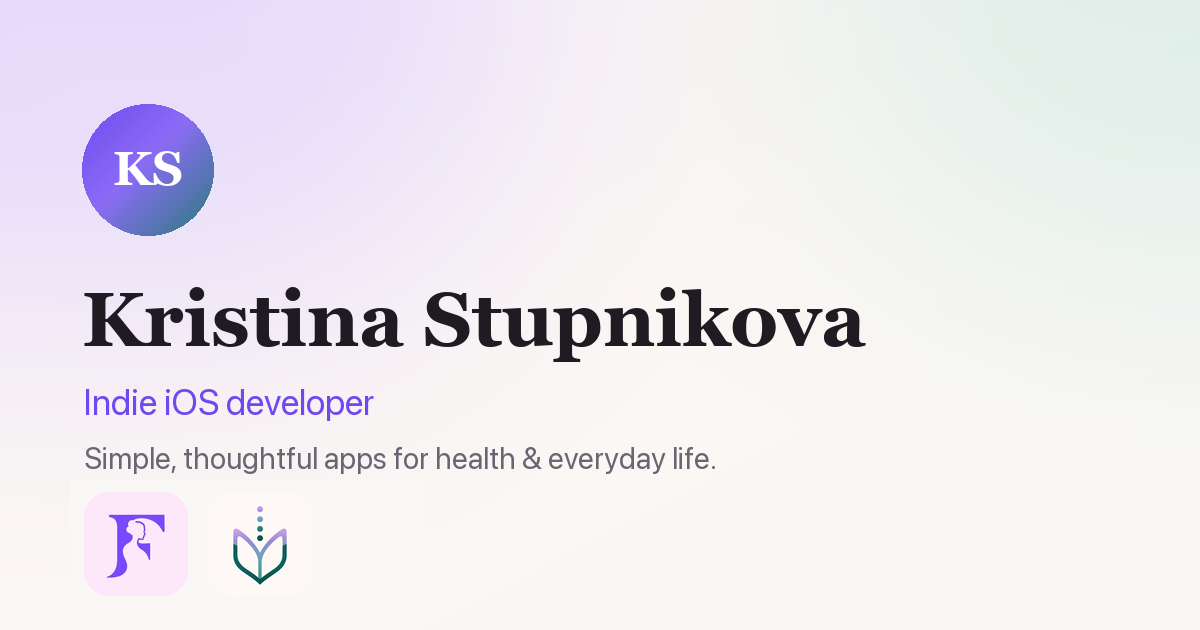
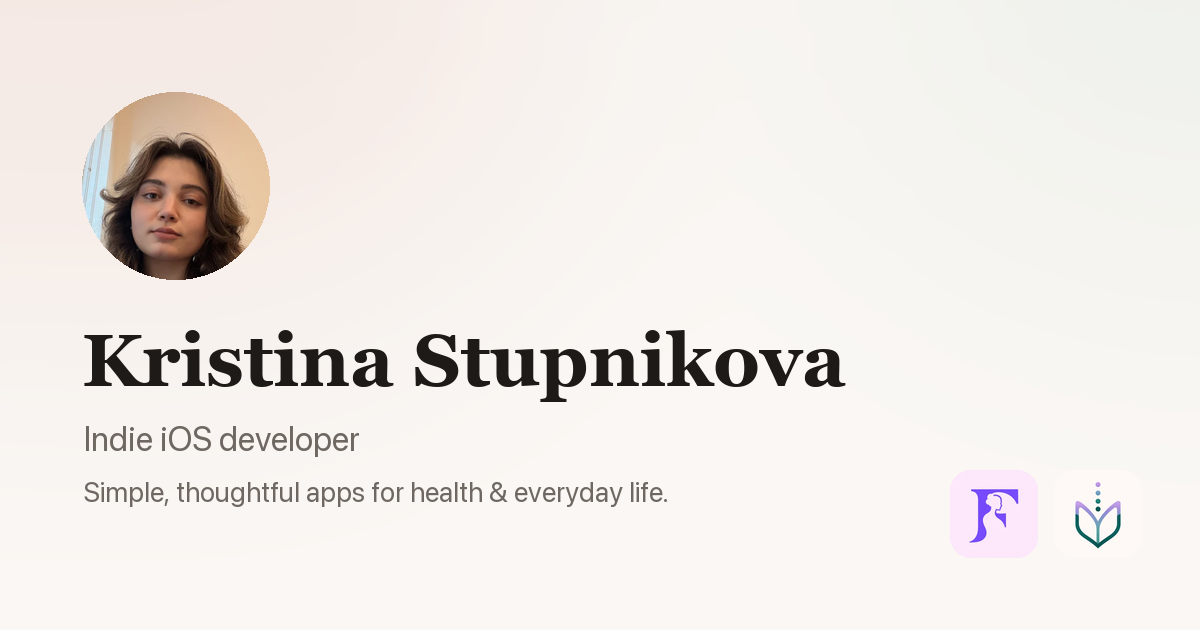
Quiet the page down and put a face on it
The violet was Formora's, not mine, and it made the page look like an
ad for one of the two apps. Palette is now warm paper, near-black type
and a single muted rose used only for the logo dot, the little arrow,
the heart and focus rings. App names lost their tints — the icon next
to them already says which app it is. The only real colour left comes
from the screenshots, which is where it belongs.

The KS monogram is a photograph now. It is cropped head-and-shoulders
because at 118px anything wider loses the face, and its own background
is warm cream, so it needs no ring to sit on the page.

Icons and the Open Graph card rebuilt to match.

diff --git a/styles.css b/styles.css
@@ -1,34 +1,35 @@
 /* Kristina Stupnikova — personal link page.
    Mobile-first; the whole thing is one narrow column that happens to
-   breathe a little on a laptop. Palette is lifted from the two app
-   icons: Formora violet and Medistory teal over warm cream. */
+   breathe a little on a laptop. Deliberately quiet: warm paper, one
+   muted rose accent, near-black type. The only real colour on the page
+   comes from the app screenshots, so the apps stand out and the page
+   does not compete with them. */
 
 :root {
-  --bg: #FBF7F4;
-  --bg-2: #F6F0F7;
+  --bg: #FAF7F4;
+  --bg-2: #F5F0EB;
   --surface: #FFFFFF;
   --surface-2: #FFFFFFCC;
-  --text: #1E1B22;
-  --muted: #6B6472;
-  --line: rgba(30, 27, 34, .10);
-  --line-strong: rgba(30, 27, 34, .16);
+  --text: #1D1A18;
+  --muted: #6F6862;
+  --line: rgba(29, 26, 24, .10);
+  --line-strong: rgba(29, 26, 24, .17);
 
-  --violet: #6D4AEF;
-  --violet-ink: #4A2FB8;
-  --violet-wash-a: #F4EBFE;
-  --violet-wash-b: #FBF2FB;
+  /* One accent, used sparingly: the dot in the logo, the little arrow,
+     the heart, focus rings. Nothing structural is coloured. */
+  --accent: #B5847C;
 
-  --teal: #0F3D3E;
-  --teal-mid: #287D77;
-  --teal-wash-a: #E9F3F0;
-  --teal-wash-b: #FBF7F2;
+  --rose-a: #F8EFEB;   /* Formora card */
+  --rose-b: #FDF9F6;
+  --sage-a: #EDF1ED;   /* Medistory card */
+  --sage-b: #FBF9F5;
 
-  --btn: #16131C;
+  --btn: #1D1A18;
   --btn-text: #FFFFFF;
 
-  --shadow-sm: 0 1px 2px rgba(30, 27, 34, .05), 0 6px 18px rgba(30, 27, 34, .05);
-  --shadow-md: 0 2px 6px rgba(30, 27, 34, .06), 0 18px 44px rgba(30, 27, 34, .09);
-  --shadow-phone: 0 10px 30px rgba(30, 27, 34, .18);
+  --shadow-sm: 0 1px 2px rgba(29, 26, 24, .04), 0 6px 18px rgba(29, 26, 24, .04);
+  --shadow-md: 0 2px 6px rgba(29, 26, 24, .05), 0 18px 44px rgba(29, 26, 24, .08);
+  --shadow-phone: 0 10px 30px rgba(29, 26, 24, .16);
 
   --radius-card: 28px;
   --radius-tile: 17px;
@@ -39,35 +40,32 @@
   --font-body: -apple-system, BlinkMacSystemFont, "SF Pro Text", "Segoe UI", system-ui, sans-serif;
   --font-script: "Caveat", "Bradley Hand", cursive;
 
-  --aurora-1: rgba(109, 74, 239, .26);
-  --aurora-2: rgba(40, 125, 119, .20);
+  --aurora-1: rgba(205, 165, 154, .26);
+  --aurora-2: rgba(172, 184, 170, .20);
 }
 
 @media (prefers-color-scheme: dark) {
   :root {
-    --bg: #121016;
-    --bg-2: #17131E;
-    --surface: #1D1A24;
-    --surface-2: #1D1A24CC;
-    --text: #F3F0F7;
-    --muted: #A7A0B3;
+    --bg: #141210;
+    --bg-2: #1A1714;
+    --surface: #201D1A;
+    --surface-2: #201D1ACC;
+    --text: #F3EFEA;
+    --muted: #A69D94;
     --line: rgba(255, 255, 255, .10);
     --line-strong: rgba(255, 255, 255, .18);
-    --violet: #AB92FF;
-    --violet-ink: #CDBBFF;
-    --violet-wash-a: #241C3C;
-    --violet-wash-b: #1E1828;
-    --teal: #CFE9E2;
-    --teal-mid: #6FC2B6;
-    --teal-wash-a: #132A2B;
-    --teal-wash-b: #171721;
-    --btn: #F3F0F7;
-    --btn-text: #16131C;
+    --accent: #D9A79E;
+    --rose-a: #2A2220;
+    --rose-b: #1E1B19;
+    --sage-a: #1C2320;
+    --sage-b: #1A1917;
+    --btn: #F3EFEA;
+    --btn-text: #1D1A18;
     --shadow-sm: 0 1px 2px rgba(0, 0, 0, .35);
     --shadow-md: 0 2px 6px rgba(0, 0, 0, .3), 0 18px 44px rgba(0, 0, 0, .35);
     --shadow-phone: 0 10px 30px rgba(0, 0, 0, .5);
-    --aurora-1: rgba(171, 146, 255, .30);
-    --aurora-2: rgba(111, 194, 182, .22);
+    --aurora-1: rgba(217, 167, 158, .15);
+    --aurora-2: rgba(140, 160, 148, .11);
   }
 }
 
@@ -125,7 +123,7 @@ a { color: inherit; }
   line-height: 1;
   margin-right: auto;
 }
-.mark span { color: var(--violet); }
+.mark span { color: var(--accent); }
 
 .nav {
   display: none;
@@ -185,22 +183,16 @@ main {
 .hero { padding: 26px 0 4px; text-align: center; }
 
 .avatar {
-  width: 112px;
-  height: 112px;
+  width: 118px;
+  height: 118px;
   margin: 0 auto;
-  display: grid;
-  place-items: center;
-  color: #fff;
-  font-family: var(--font-display);
-  font-size: 40px;
-  font-weight: 600;
-  letter-spacing: .02em;
-  background: linear-gradient(145deg, var(--violet) 0%, #8B6BF5 42%, var(--teal-mid) 100%);
+  overflow: hidden;
+  background: var(--bg-2);
   border-radius: 56% 44% 47% 53% / 46% 52% 48% 54%;
   box-shadow: var(--shadow-md);
   animation: morph 14s ease-in-out infinite;
 }
-.avatar span { transform: translateY(-2px); }
+.avatar img { width: 100%; height: 100%; object-fit: cover; display: block; }
 
 @keyframes morph {
   0%, 100% { border-radius: 56% 44% 47% 53% / 46% 52% 48% 54%; }
@@ -218,7 +210,7 @@ main {
 .note__arrow {
   width: 46px;
   height: 22px;
-  color: var(--violet);
+  color: var(--accent);
   opacity: .55;
   vertical-align: -4px;
   margin-right: 4px;
@@ -237,7 +229,7 @@ main {
 .hero__role {
   font-size: 17px;
   font-weight: 500;
-  color: var(--violet);
+  color: var(--text);
   margin: 10px 0 0;
 }
 
@@ -303,8 +295,8 @@ main {
   box-shadow: var(--shadow-sm);
 }
 
-.card--formora  { background: linear-gradient(165deg, var(--violet-wash-a), var(--violet-wash-b) 64%, var(--surface)); }
-.card--medistory{ background: linear-gradient(165deg, var(--teal-wash-a),  var(--teal-wash-b) 64%, var(--surface)); }
+.card--formora  { background: linear-gradient(165deg, var(--rose-a), var(--rose-b) 64%, var(--surface)); }
+.card--medistory{ background: linear-gradient(165deg, var(--sage-a), var(--sage-b) 64%, var(--surface)); }
 
 .card__head {
   display: grid;
@@ -330,8 +322,6 @@ main {
   margin: 0;
   letter-spacing: -.01em;
 }
-.card--formora  .card__name { color: var(--violet-ink); }
-.card--medistory .card__name { color: var(--teal); }
 
 .card__sub { margin: 3px 0 0; font-size: 14.5px; color: var(--muted); }
 
@@ -426,12 +416,12 @@ main {
   padding: 22px 20px 24px;
   border-radius: var(--radius-card);
   border: 1px solid var(--line);
-  background: linear-gradient(150deg, var(--violet-wash-b), var(--teal-wash-b));
+  background: linear-gradient(150deg, var(--rose-b), var(--sage-b));
   text-align: center;
   scroll-margin-top: 20px;
 }
 .connect__head { margin: 0; display: grid; gap: 2px; justify-items: center; }
-.connect__heart { width: 20px; height: 20px; color: var(--violet); margin-bottom: 4px; }
+.connect__heart { width: 20px; height: 20px; color: var(--accent); margin-bottom: 4px; }
 .connect__head strong { font-size: 18px; font-weight: 600; }
 .connect__head span { font-size: 14.5px; color: var(--muted); }
 
@@ -449,7 +439,7 @@ main {
 /* ---------- focus & motion ---------- */
 
 :where(a, button):focus-visible {
-  outline: 2px solid var(--violet);
+  outline: 2px solid var(--accent);
   outline-offset: 3px;
   border-radius: 10px;
 }

diff --git a/index.html b/index.html
@@ -5,8 +5,8 @@
 <meta name="viewport" content="width=device-width, initial-scale=1, viewport-fit=cover">
 <title>Kristina Stupnikova — Indie iOS developer</title>
 <meta name="description" content="Indie iOS developer. I build simple, thoughtful apps for health and everyday life — Formora and Medistory.">
-<meta name="theme-color" content="#FBF7F4" media="(prefers-color-scheme: light)">
-<meta name="theme-color" content="#121016" media="(prefers-color-scheme: dark)">
+<meta name="theme-color" content="#FAF7F4" media="(prefers-color-scheme: light)">
+<meta name="theme-color" content="#141210" media="(prefers-color-scheme: dark)">
 <meta name="color-scheme" content="light dark">
 
 <meta property="og:type" content="website">
@@ -73,7 +73,9 @@
 <main id="top">
 
   <section class="hero">
-    <div class="avatar" aria-hidden="true"><span>KS</span></div>
+    <div class="avatar">
+      <img src="assets/kristina.webp" alt="Kristina Stupnikova" width="400" height="400" fetchpriority="high" decoding="async">
+    </div>
     <p class="note">
       <svg class="note__arrow" aria-hidden="true"><use href="#i-squiggle"/></svg>
       <span data-i18n="hero.note">Thanks for being here!</span> ♡

diff --git a/README.md b/README.md
@@ -11,7 +11,7 @@ Pages from `main` at the repository root.
 | `index.html` | The whole page. English is the source language. |
 | `styles.css` | Design tokens at the top; mobile-first, dark mode via `prefers-color-scheme`. |
 | `app.js` | EN/RU switch. Russian strings live in `STRINGS.ru`; the choice is kept in `localStorage`. |
-| `assets/` | App icons, screenshots (WebP), favicon, Open Graph card. |
+| `assets/` | Portrait, app icons, screenshots (WebP), favicon, Open Graph card. |
 
 ## Editing the links
 
@@ -48,6 +48,16 @@ their own storefront.
 Every translatable string sits in `index.html` with a `data-i18n="key"` attribute
 and in both dictionaries in `app.js`. Change a string in **both** places —
 `index.html` is what a visitor without JavaScript sees.
+
+## The portrait
+
+`assets/kristina.webp` is a 400x400 square crop of a phone photo, shown through
+an organic blob `border-radius` that slowly morphs. The crop is deliberately
+head-and-shoulders: at 118px anything wider turns the face into nothing. The
+photo's own background is warm cream, which is why it sits on the page without
+a ring or a border.
+
+To swap it, crop square around the face, export at 400px, keep the filename.
 
 ## Screenshots
 
